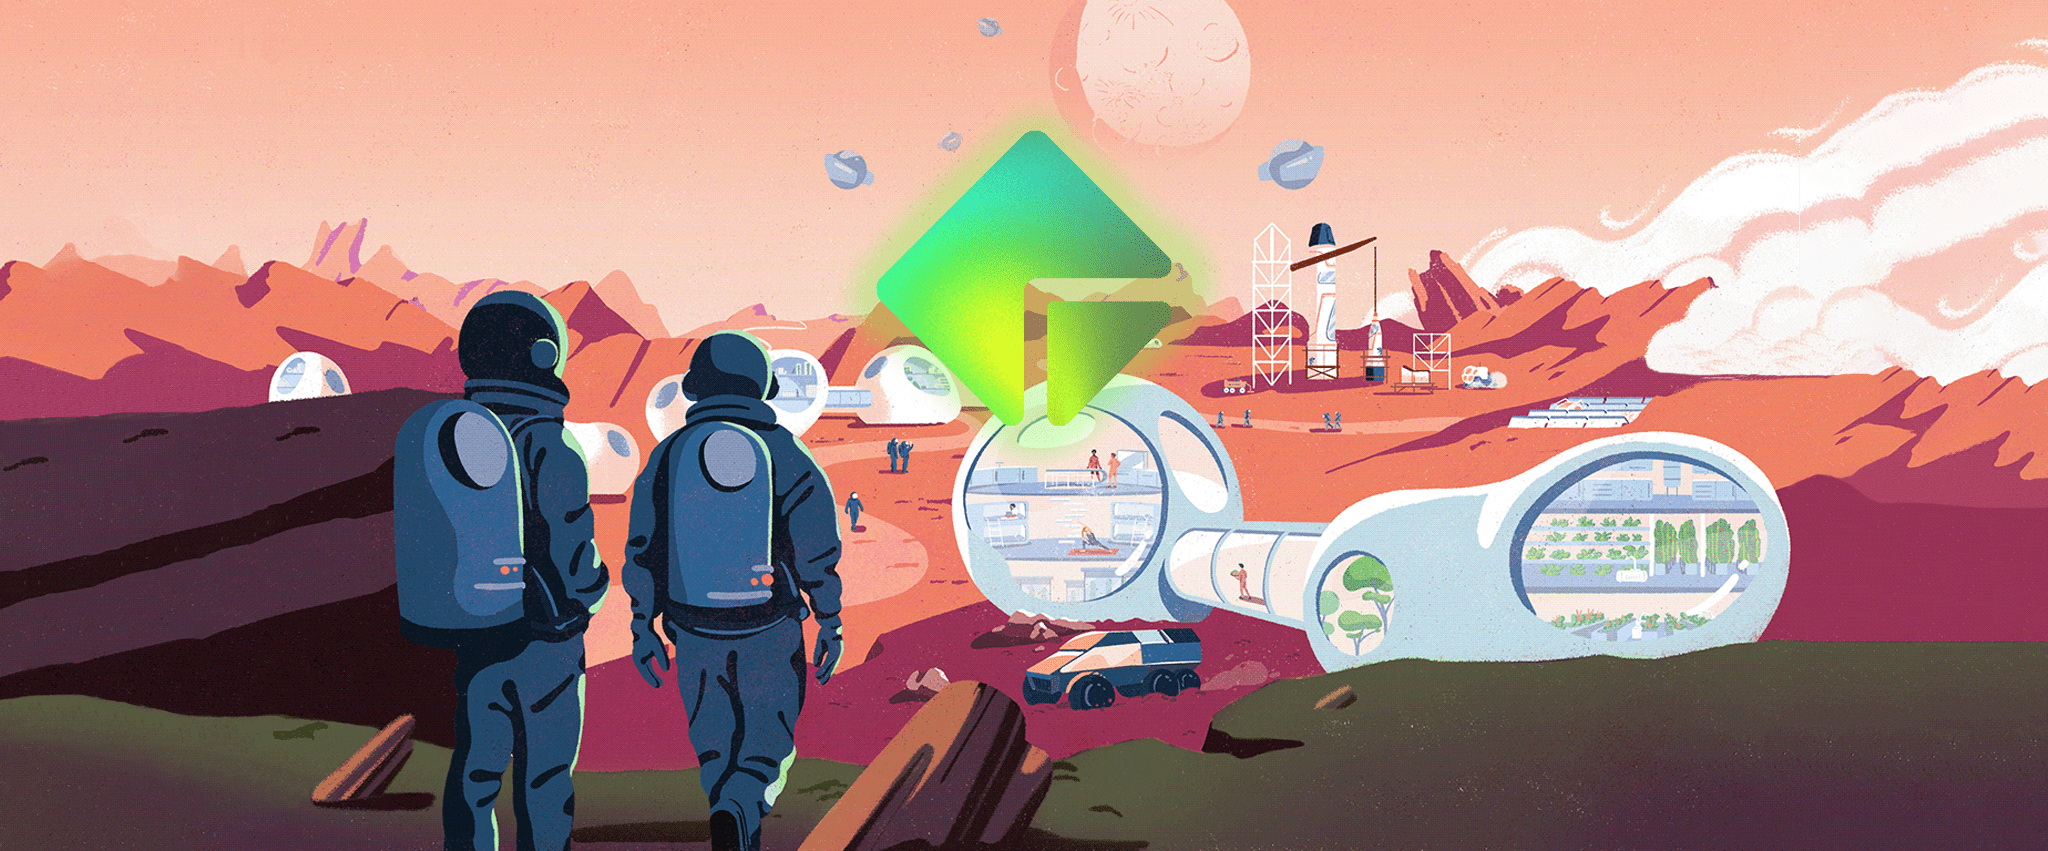
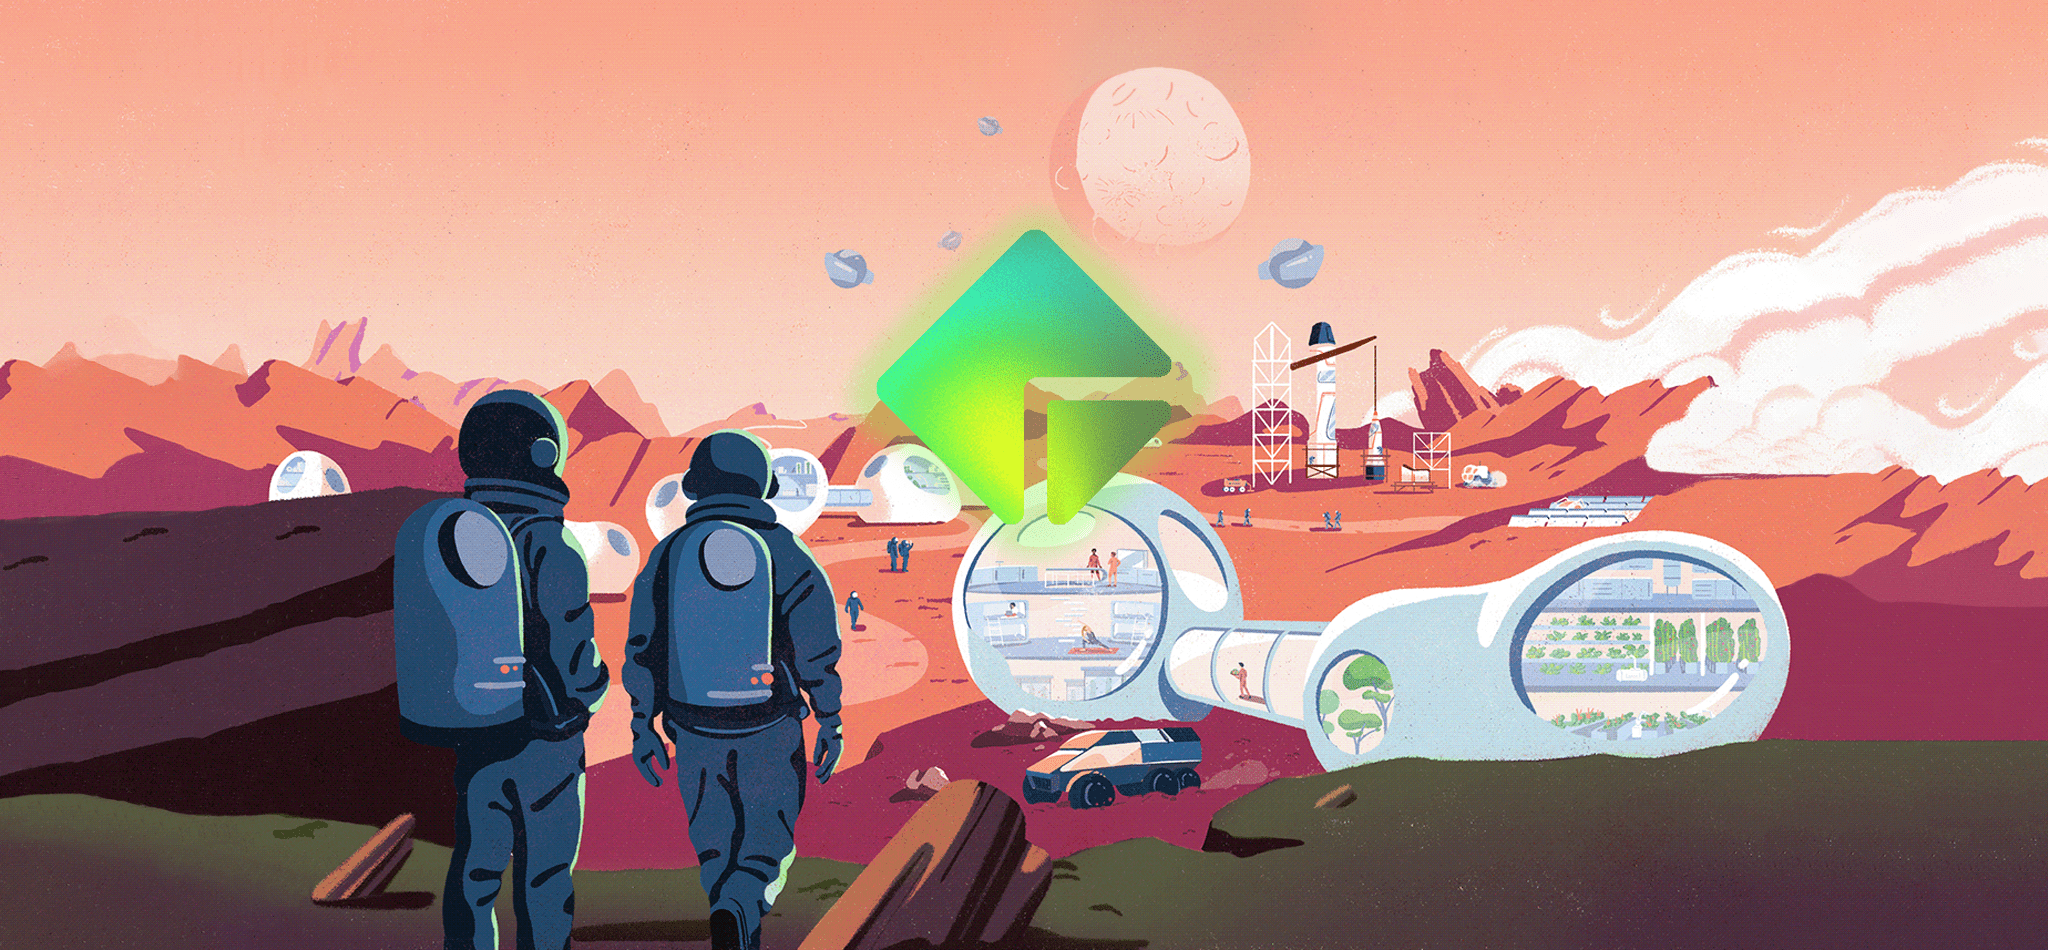
-

diff --git a/stylesheet.css b/stylesheet.css
@@ -298,7 +298,7 @@ a:-webkit-any-link {
     width: -webkit-fill-available;
     max-width: 1450px;
     margin: 0px auto;
-    top: 0;
+    /*top: 0;*/
     left: 0;
     height: 35px;
     position: sticky;
@@ -309,12 +309,13 @@ a:-webkit-any-link {
     z-index: 1;
     transition: height ease-out 0.4s;
 
-    /*background: rgba(255, 255, 255, 0.73);*/
-    /*top: 25px;*/
-    /*margin-left: 25px;*/
-    /*margin-right: 25px;*/
-    /*border-radius: 15px;*/
-    /*-webkit-backdrop-filter: blur(4px);*/
+    background: rgba(255, 255, 255, 0.65);
+    top: 25px;
+    margin-left: 25px;
+    margin-right: 25px;
+    border-radius: 15px;
+    -webkit-backdrop-filter: blur(4px);
+    border: 1px solid rgb(232, 232, 232);
 }
 .header {
     width: -webkit-fill-available;
@@ -322,6 +323,7 @@ a:-webkit-any-link {
     position: sticky;
 }
 .image-start {
+    margin-top: -78px;
     width: -webkit-fill-available;
 }
 .h-menu {
@@ -813,7 +815,7 @@ footer {
     .pre-header.open {
         height: 370px;
         overflow: hidden;
-        background: linear-gradient(#ffffff 99%, #dbdbdb);
+        /*background: linear-gradient(#ffffff 99%, #dbdbdb);*/
     }
     .mobile-menu {
         display: grid;
@@ -842,7 +844,8 @@ footer {
     }
 /* --------------------------- */
     .image-start {
-        margin-top: 75px;
+        /*margin-top: 75px;*/
+        /*margin-top: 105px;*/
     }
     .hat_text {
         display: none;
